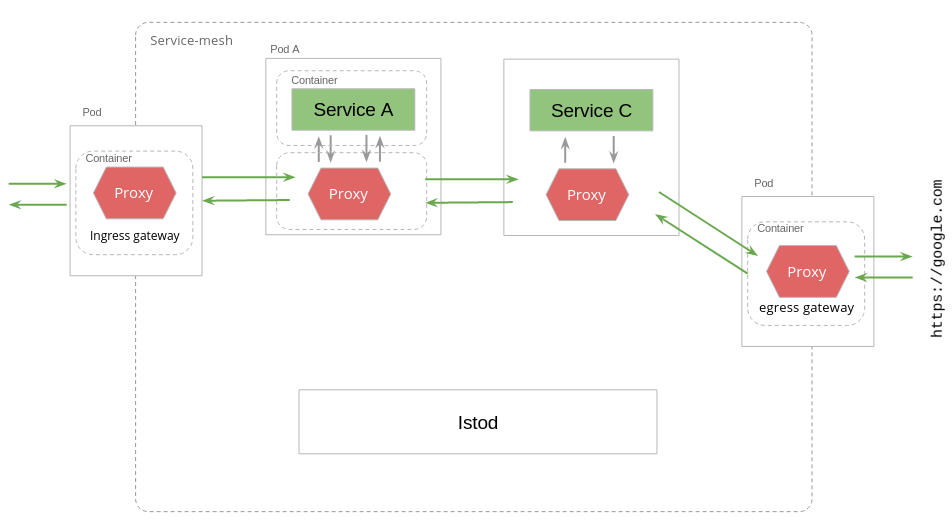
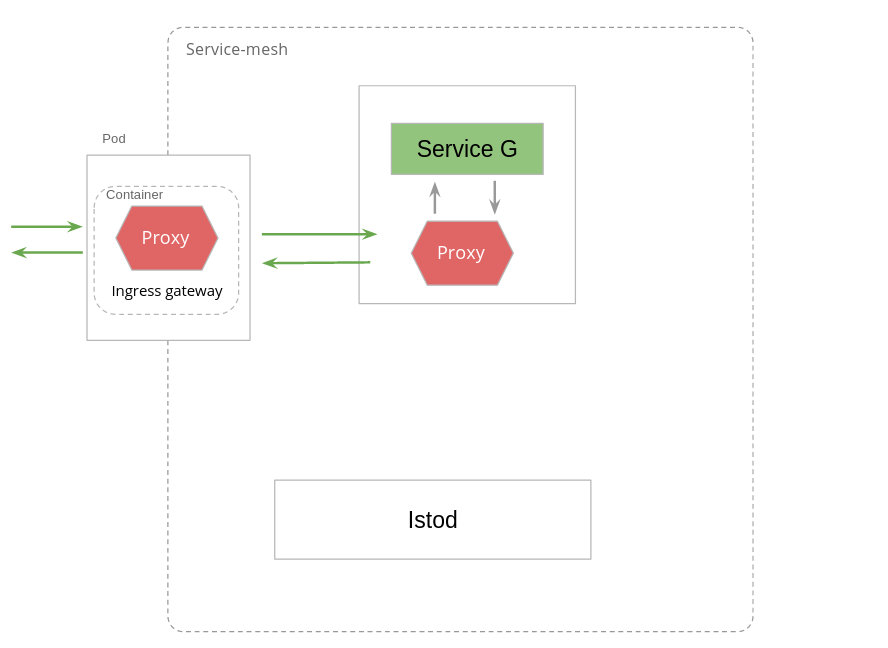
Modification of source files

diff --git a/sc3/step4.md b/sc3/step4.md
@@ -1,82 +1,24 @@
+На данном шаге мы откроем исходящий HTTPS трафик из service mesh для получения ответов из oracle.com на запросы из ServiceG.
 
+Рассмотрим манифест outbound-oracle-dr.yml:
+`https://raw.githubusercontent.com/avsinsight/katacoda-scenarios/main/sc3/src/outbound-oracle-dr.yml`{{copy}}
 
-`kubectl apply -f https://raw.githubusercontent.com/avsinsight/katacoda-scenarios/main/sc3/src/oracle-host-se.yml`{{execute}}
+Обратите внимание на ключ spec.trafficPolicy.portLevelSettings[0].tls со значением `mode: SIMPLE`. Такое значение позволит зашифровать HTTP трафик, поступивший на указанный порт 80 для хоста www.oracle.com.
+
+Рассмотрим манифест oracle-host-se.yml:
+`https://raw.githubusercontent.com/avsinsight/katacoda-scenarios/main/sc3/src/oracle-host-se.yml`{{copy}}
+
+Ключи spec.hosts, а также две пары ключей number и protocol обозначают допустимые протоколы для приведенного хоста, но обратите внимание но ключ spec.ports[0].targetPort (443). При налчии этого ключа, трафик, который поступит на порт в значении spec.ports[0].number (80), будет перенаправлен на порт в значении spec.ports[0].targetPort (443).
+
+Таким образом мы достигнем перенаправления трафика при помощи envoy-прокси в контейнере с бизнес сервисом из порта 80, куда направляет запросы ServiceG, в порт 443.
+
+Применим DestinationRule:
 `kubectl apply -f https://raw.githubusercontent.com/avsinsight/katacoda-scenarios/main/sc3/src/outbound-oracle-dr.yml`{{execute}}
 
-`kubectl apply -f https://raw.githubusercontent.com/avsinsight/katacoda-scenarios/main/sc3/src/outbound-egress-oracle-vs.yml`{{execute}}
+Применим ServiceEntry:
+`kubectl apply -f https://raw.githubusercontent.com/avsinsight/katacoda-scenarios/main/sc3/src/oracle-host-se.yml`{{execute}}
 
-
-Проверим готовность подов:
-`kubectl get pods --all-namespaces`{{execute}}
-
-И наконец совершим GET запрос по адресу ingress-шлюза:
+Cовершим GET запрос по адресу ingress-шлюза:
 `curl -v http://$GATEWAY_URL/service-g`{{execute}}
 
-
-
-
-
-
-На данном шаге мы откроем исходящий HTTPS трафик из service mesh для получения ответов из google.com на запросы из ServiceC.
-
-Развернем egress-шлюз, выполнив команду авто-конфигруации Isto:
-
-`istioctl install --set components.egressGateways[0].name=istio-egressgateway --set components.egressGateways[0].enabled=true`{{execute}}
-
-Просмотрим манифест google-host-se.yml:
-`https://raw.githubusercontent.com/avsinsight/katacoda-scenarios/main/sc3/src/google-host-se.yml`{{copy}}
-
-Ключи spec.hosts, spec.ports[0].number, spec.ports[0].protocol содержат значение имени хоста, запросы на который следует разрешить, номера его порта, вид протокола.
-
-Применим ServiceEntry:
-`kubectl apply -f https://raw.githubusercontent.com/avsinsight/katacoda-scenarios/main/sc3/src/google-host-se.yml`{{execute}}
-
-`kubectl apply -f https://raw.githubusercontent.com/avsinsight/katacoda-scenarios/main/sc3/src/outbound-egress-google-dr.yml`{{execute}}
-
-kubectl exec service-c-deployment-744fd455d-gbg5j -c service-c-container -- curl -sSL http://edition.cnn.com/politics
-
-
-egress-gw.yml
-
-
-
-
-https://istio.io/latest/blog/2018/egress-mongo/
-
-
-
-
-
-
-Создадим манифест Gateway для исходящего трафика:
-`kubectl apply -f https://raw.githubusercontent.com/avsinsight/katacoda-scenarios/main/sc1/src/worldtime-gw.yml`{{execute}}
-
-Рассмотрим новое правило маршрутизации:
-`https://raw.githubusercontent.com/avsinsight/katacoda-scenarios/main/sc1/src/outbound-srv-c-to-worldtime-vs.yml`{{copy}}
-
-В соответствии с этим манифестом новое правило будет работать при вызовах на хост worldtimeapi.org из шлюза istio-egressgateway, а также из любого envoy-прокси в неймспейсе. Если вызов прийдет из любого envoy-прокси в неймспейсе (кроме istio-egressgateway), произойдет его перенаправление на хост istio-egressgateway. Если поступит запрос из istio-egressgateway, то он будет направлен на хост worldtimeapi.org. Таким образом достигается сосредоточение всех исходящих вызовов в кластере на шлюз istio-egressgateway.
-
-Применим это правило:
-`kubectl apply -f https://raw.githubusercontent.com/avsinsight/katacoda-scenarios/main/sc1/src/outbound-srv-c-to-worldtime-vs.yml`{{execute}}
-
-Теперь исходящий трафик направляется через egress-шлюз и достигает worldtimeapi.org.
-
-Совершим несколько запросов на ingress-шлюз, напомню, запросы из ServiceA все также балансируются между ServiceB и ServiceC:
-
-`curl -v http://$GATEWAY_URL/service-a`{{execute}}
-
-На этом шаге все ответы должны быть успешные и иметь вид (если поступили из ServiceB):
-`Hello from ServiceA! Calling Producer Service... Received response from Producer Service: Hello from ServiceB!`
-
-Или из ServiceC:
-`Hello from ServiceA! Calling Producer Service... Received response from Producer Service: Hello from ServiceC! Calling worldtimeapi.org API... Received response from worldtimeapi.org: Europe/Amsterdam`
-`Europe/Andorra`
-`Europe/Astrakhan`
-`Europe/Athens`
-`Europe/Belgrade`
-`Europe/Berlin`
-`Europe/... (printed only 100 symbols from response body beginning)`
-
-Обратите внимание, что в части ответа из ServiceC присутвует ответ из worldtimeapi.org по запросу `http://worldtimeapi.org/api/timezone/Europe`
-
-Перейдем далее.
+Таким образом мы зашифровали HTTP трафик и создали HTTPS соединение.

diff --git a/sc3/step3.md b/sc3/step3.md
@@ -1,62 +1,41 @@
+На этом шаге мы установим ServiceG настроим service mesh согласно следующей схеме:
 
+`https://raw.githubusercontent.com/avsinsight/katacoda-scenarios/main/assets/sc3-1.png`{{copy}}
 
-
-
-
-
+Давайте установим ServiceG:
 `kubectl apply -f https://raw.githubusercontent.com/avsinsight/katacoda-scenarios/main/sc3/src/service-g-deployment.yml`{{execute}}
+
+Применим Service для деплоймента выше:
 `kubectl apply -f https://raw.githubusercontent.com/avsinsight/katacoda-scenarios/main/sc3/src/service-g-srv.yml`{{execute}}
+
+Создадим Gateway для маршрутизации запросов из ingress-шлюза в ServiceG:
 `kubectl apply -f https://raw.githubusercontent.com/avsinsight/katacoda-scenarios/main/sc3/src/service-g-gw.yml`{{execute}}
+
+И применим правило маршрутизации:
 `kubectl apply -f https://raw.githubusercontent.com/avsinsight/katacoda-scenarios/main/sc3/src/inbound-to-service-g-vs.yml`{{execute}}
 
 Проверим готовность подов:
 `kubectl get pods --all-namespaces`{{execute}}
 
+Все поды, за исключением katacoda-cloud-provider, должны иметь статус Running, дождитесь нужного статсуса (в зависисмоти от нагрузки на серверы Katacoda это время может сильно варьировать).
+
 И наконец совершим GET запрос по адресу ingress-шлюза:
 `curl -v http://$GATEWAY_URL/service-g`{{execute}}
 
 
-
-
-
-
-На этом шаге мы установим ServiceA и ServiceC и настроим service mesh согласно следующей схеме:
-
-`https://raw.githubusercontent.com/avsinsight/katacoda-scenarios/main/assets/sc3-1.png`{{copy}}
-
-Давайте установим ServiceA:
-`kubectl apply -f https://raw.githubusercontent.com/avsinsight/katacoda-scenarios/main/sc1/src/serviceA-v1-deployment.yml`{{execute}}
-
-Применим Service для деплоймента выше:
-`kubectl apply -f https://raw.githubusercontent.com/avsinsight/katacoda-scenarios/main/sc1/src/serviceA-srv.yml`{{execute}}
-
-Создадим Gateway для маршрутизации запросов из ingress-шлюза в ServiceA:
-`kubectl apply -f https://raw.githubusercontent.com/avsinsight/katacoda-scenarios/main/sc1/src/serviceA-gw.yml`{{execute}}
-
-И применим правило маршрутизации:
-`kubectl apply -f https://raw.githubusercontent.com/avsinsight/katacoda-scenarios/main/sc1/src/inbound-to-serviceA-vs.yml`{{execute}}
-
-Установим ServiceC:
-`kubectl apply -f https://raw.githubusercontent.com/avsinsight/katacoda-scenarios/main/sc1/src/service-c-deployment.yml`{{execute}}
-
-Применим манифест Service для деплоймента ServiceC:
-`kubectl apply -f https://raw.githubusercontent.com/avsinsight/katacoda-scenarios/main/sc1/src/service-c-srv.yml`{{execute}}
-
-Применим манифест для перенаправдления трафика из ServiceA в ServiceC:
-`kubectl apply -f https://raw.githubusercontent.com/avsinsight/katacoda-scenarios/main/sc1/src/producer-internal-host-100-c-vs.yml`{{execute}}
-
-
-
-
-Все поды, за исключением katacoda-cloud-provider, должны иметь статус Running, дождитесь нужного статсуса (в зависисмоти от нагрузки на серверы Katacoda это время может сильно варьировать).
-
-
-
 В ответ на совершенный вызов на данном шаге мы должны видеть сообщение:
+
+
+
+
+
+
 `Hello from ServiceA! Calling Producer Service... Received response from Producer Service: Hello from ServiceC! Calling worldtimeapi.org API... 502 Bad Gateway: [no body]`
 
 Такой ответ - результат направления запроса из ServiceA в ServiceC, который пытается получить данные из своего поставщика Интернете, напомню этот сервис запрашивает `http://worldtimeapi.org/api/timezone/Europe`.
 
 Однако, на данном шаге исходящие запросы из нашего кластера запрещены, поэтому в ответе мы видим `502 Bad Gateway: [no body]`.
+
+
 
 Перейдем далее.

diff --git a/sc3/step2.md b/sc3/step2.md
@@ -1,8 +1,11 @@
-В данном упражнении мы установим ServiceG. 
+В данном упражнении мы установим ServiceG.
 
 Этот сервис при получении запроса на адрес http://localhost:8083/, для формирования ответа, запрашивает информацию у поставщика по адресу http://www.oracle.com/index.html, получив ответ, возвращает данные в своем ответе.
 
-Итак, бизнес сервис соврешает GET запросы внешний поставщик по адресу: `http://www.oracle.com/index.html`
+Исходный код приложения:
+`https://github.com/avsinsight/katacoda-scenarios/tree/main/apps/ServiceG`{{copy}}
+
+Итак, бизнес сервис совершает GET запросы внешний поставщик по адресу: `http://www.oracle.com/index.html`
 
 Давайте рассмотрим ответ подобного запроса:
 `curl -v http://www.oracle.com/index.html`{{execute}}
@@ -13,14 +16,14 @@
 `< Content-Length: 0`
 `< Location: https://www.oracle.com/index.html`
 
-301 Moved Permanently и Location: https://www.oracle.com/index.html. Тела ответа нет. Т. е. oracle.com не предоставляет ни какой полезной информации по HTTP протоклоу.
+301 Moved Permanently и Location: https://www.oracle.com/index.html, тела ответа нет. Т. е. oracle.com не предоставляет ни какой полезной информации по HTTP протоколу.
 
 Давайте теперь совершить тот же запрос через HTTPS протокол:
 `curl -v https://www.oracle.com/index.html`{{execute}}
 
-В теле ответа можем увидеть огромную html страницу.
+В теле ответа можем увидеть html-страницу.
 
-Суть данного упражнения заключается в создании конфигураций для envoy-прокси при помощи Istio, которые бы позволили зашифровать исходящие из бизнес сервиса не безопасные HTTP сообщения и подключиться к поставщику данных через HTTPS протокол.
+Суть данного упражнения заключается в создании конфигураций для envoy-прокси при помощи Istio, которые бы позволили зашифровать исходящие из бизнес сервиса небезопасные HTTP сообщения и подключиться к поставщику данных через HTTPS протокол.
 
 Для этого:
 
@@ -28,7 +31,7 @@
 
 2) Откроем входящий трафик в service mesh и направим его в ServiceG
 
-3) Открытие исходящего трафика из service mesh для получения ответов из oracle.com по HTTPS протоколу на основе исходного незашифрованного HTTP трафика. 
+3) Открытие исходящего трафика из service mesh для получения ответов из oracle.com по HTTPS протоколу на основе исходного не зашифрованного HTTP трафика.
 
 Перейдем к следующему шагу.
 
